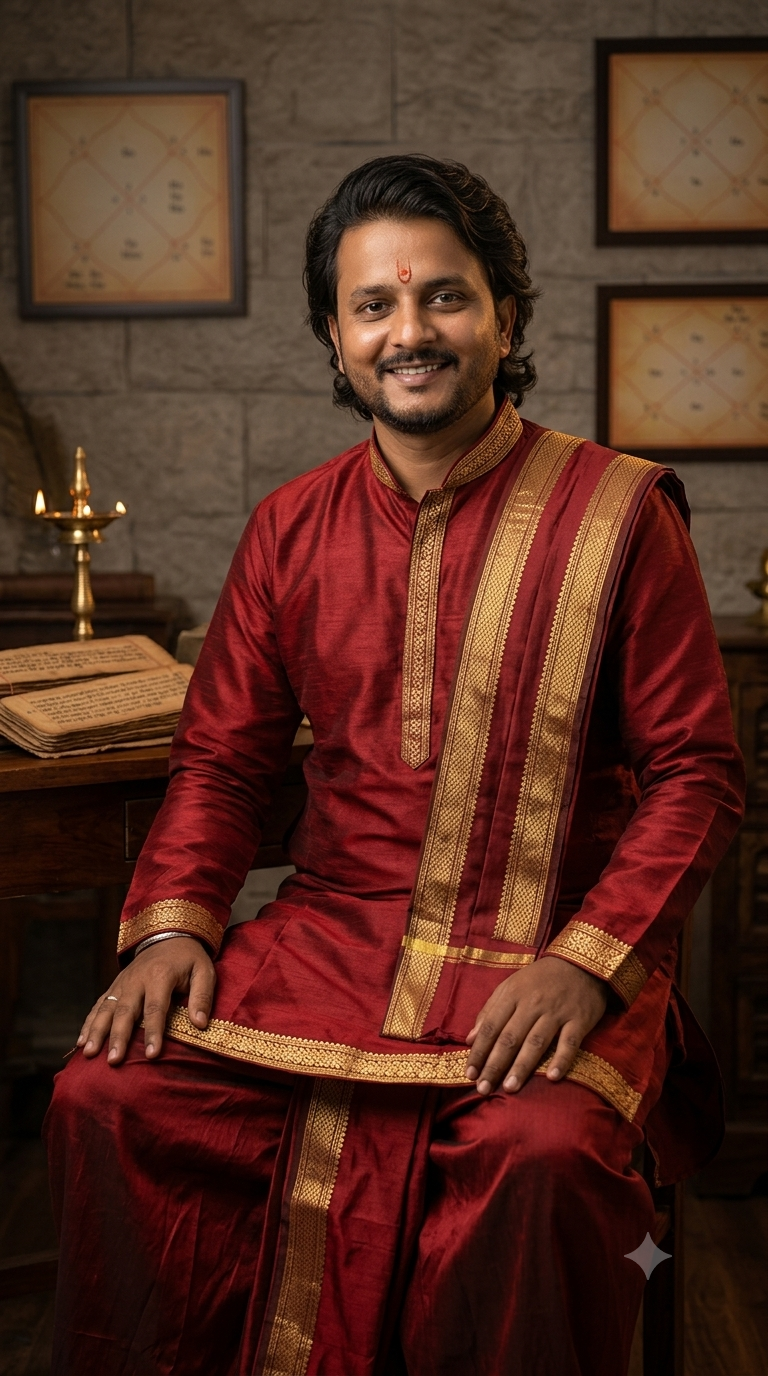
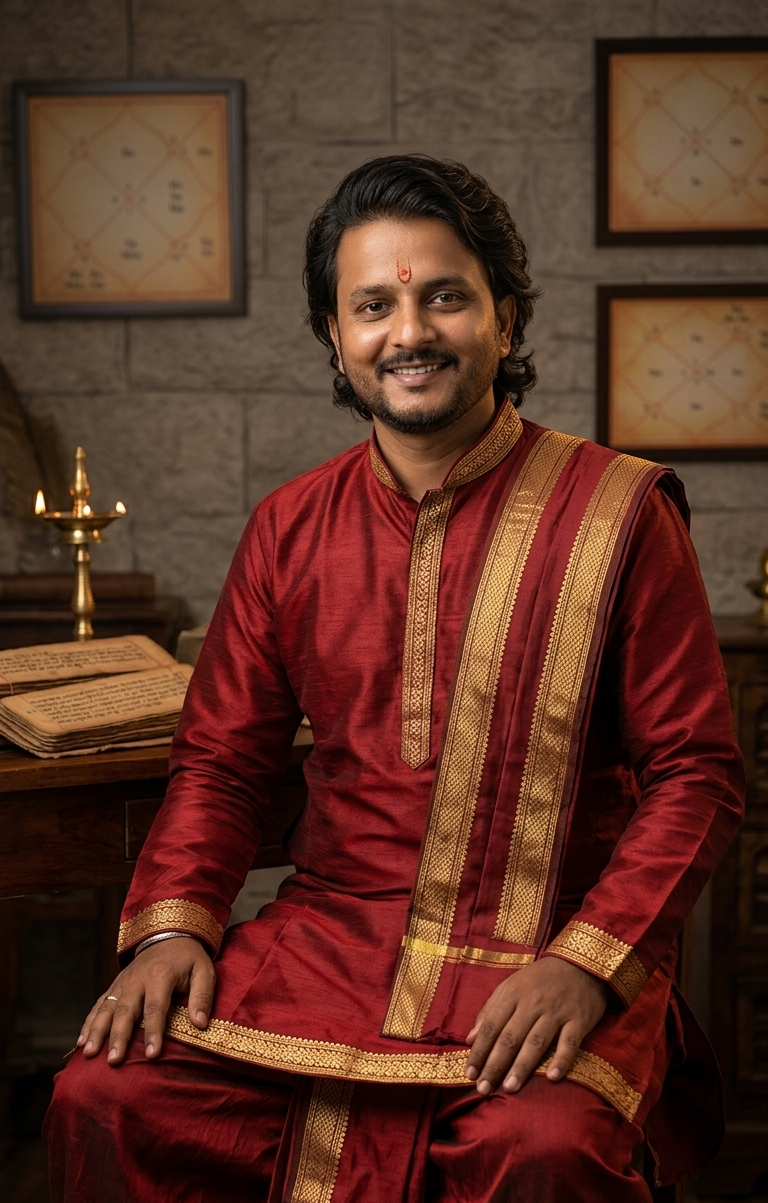
Add service benefits, new portrait photo, and spiritual background texture
Each service card now lists what the customer gains, the About section
uses the new professional portrait, and the page background has a
warmer, subtle spiritual texture (Om watermark, soft gradient).

diff --git a/index.html b/index.html
@@ -94,6 +94,13 @@
 <summary>विवरण और प्रक्रिया<span aria-hidden="true">＋</span>
 </summary>
 <div class="service-detail">
+<h4>इससे आपको क्या मिलता है</h4>
+<ul class="benefit-list">
+<li>अपनी कुंडली और जीवन के प्रमुख विषयों की स्पष्ट, व्यवस्थित समझ</li>
+<li>अपने सवालों पर केंद्रित, व्यक्तिगत बातचीत</li>
+<li>निर्णय लेने से पहले एक पारंपरिक दृष्टिकोण से सोचने का मौका</li>
+<li>मन की उलझन को शब्दों में रखकर हल्का महसूस करना</li>
+</ul>
 <h4>क्या जानकारी चाहिए</h4>
 <p>जन्म तिथि, यथासंभव सही जन्म समय, जन्म स्थान और आपके मुख्य सवाल। समय पता न हो तो पहले बताएं।</p>
 <h4>क्या शामिल है</h4>
@@ -119,6 +126,13 @@
 <summary>विवरण और प्रक्रिया<span aria-hidden="true">＋</span>
 </summary>
 <div class="service-detail">
+<h4>इससे आपको क्या मिलता है</h4>
+<ul class="benefit-list">
+<li>विवाह से जुड़े संकेतों और समय पर पारंपरिक स्पष्टता</li>
+<li>अपेक्षाओं और चिंताओं पर खुलकर बात करने का सुरक्षित स्थान</li>
+<li>परिवार या साथी से बातचीत के लिए बेहतर तैयारी</li>
+<li>अपने निर्णय पर भरोसा बढ़ाने वाली सोच-समझ</li>
+</ul>
 <h4>क्या जानकारी चाहिए</h4>
 <p>अपने जन्म विवरण और सवाल; दूसरे व्यक्ति की जानकारी केवल उनकी सहमति से साझा करें।</p>
 <h4>क्या शामिल है</h4>
@@ -144,6 +158,13 @@
 <summary>विवरण और प्रक्रिया<span aria-hidden="true">＋</span>
 </summary>
 <div class="service-detail">
+<h4>इससे आपको क्या मिलता है</h4>
+<ul class="benefit-list">
+<li>रिश्ते की उलझन को बिना जजमेंट के समझने का मौका</li>
+<li>अपनी भावनाओं और अपेक्षाओं को स्पष्ट करने में मदद</li>
+<li>आत्मचिंतन के लिए एक पारंपरिक आध्यात्मिक नज़रिया</li>
+<li>अगला कदम खुद तय करने का आत्मविश्वास</li>
+</ul>
 <h4>क्या जानकारी चाहिए</h4>
 <p>अपना प्रश्न और आवश्यक पृष्ठभूमि। निजी चैट या किसी अन्य की संवेदनशील जानकारी भेजने की आवश्यकता नहीं है।</p>
 <h4>क्या शामिल है</h4>
@@ -169,6 +190,13 @@
 <summary>विवरण और प्रक्रिया<span aria-hidden="true">＋</span>
 </summary>
 <div class="service-detail">
+<h4>इससे आपको क्या मिलता है</h4>
+<ul class="benefit-list">
+<li>पारिवारिक विषयों पर पारंपरिक दृष्टिकोण और मानसिक शांति</li>
+<li>अपेक्षाओं और सीमाओं की शुरुआत में ही स्पष्टता</li>
+<li>चिंता के समय भावनात्मक सहारा और सुनने वाला कोई</li>
+<li>इच्छानुसार प्रार्थना या ध्यान जैसे सरल अभ्यासों की जानकारी</li>
+</ul>
 <h4>क्या जानकारी चाहिए</h4>
 <p>अपने प्रश्न और केवल आवश्यक जन्म विवरण। चिकित्सा रिपोर्ट भेजने की आवश्यकता नहीं है।</p>
 <h4>क्या शामिल है</h4>
@@ -194,6 +222,13 @@
 <summary>विवरण और प्रक्रिया<span aria-hidden="true">＋</span>
 </summary>
 <div class="service-detail">
+<h4>इससे आपको क्या मिलता है</h4>
+<ul class="benefit-list">
+<li>रोज़ के जीवन में शामिल करने योग्य सरल आध्यात्मिक अभ्यास</li>
+<li>अपनी गति से सीखने का सहज, दबाव-मुक्त तरीका</li>
+<li>मानसिक शांति और नियमित दिनचर्या बनाने में सहायता</li>
+<li>परंपरा से जुड़ाव महसूस करने का अवसर</li>
+</ul>
 <h4>क्या जानकारी चाहिए</h4>
 <p>आपकी रुचि, परंपरा और अभ्यास के लिए उपलब्ध समय। किसी विशेष धार्मिक मान्यता को अपनाना आवश्यक नहीं है।</p>
 <h4>क्या शामिल है</h4>
@@ -244,7 +279,7 @@
 <section class="section container about" id="about">
 <figure>
 <a href="https://www.instagram.com/baalrishi_jyotish?stkn=MWdvZXkyNTZ2M2xkdQ==" target="_blank" rel="noopener noreferrer" aria-label="Instagram पर संपर्क करें ↗">
-<img src="assets/baalrishi-portrait.png" width="768" height="1376" loading="lazy" alt="बाल ऋषि का चित्र">
+<img src="assets/baalrishi-portrait.png" width="768" height="1203" loading="lazy" alt="बाल ऋषि का चित्र">
 </a>
 <figcaption>
 <a class="button primary" href="https://www.instagram.com/baalrishi_jyotish?stkn=MWdvZXkyNTZ2M2xkdQ==" target="_blank" rel="noopener noreferrer">Instagram पर संपर्क करें ↗</a>

diff --git a/en.html b/en.html
@@ -94,6 +94,13 @@
 <summary>Details & process<span aria-hidden="true">＋</span>
 </summary>
 <div class="service-detail">
+<h4>What you gain</h4>
+<ul class="benefit-list">
+<li>A clear, organised understanding of your birth chart and key life themes</li>
+<li>A focused, one-on-one conversation about your specific questions</li>
+<li>A traditional perspective to consider before you decide</li>
+<li>A calmer mind after putting your concerns into words</li>
+</ul>
 <h4>What to prepare</h4>
 <p>Your birth date, time as accurately as known, birthplace and main questions. Let us know if your birth time is uncertain.</p>
 <h4>What is included</h4>
@@ -119,6 +126,13 @@
 <summary>Details & process<span aria-hidden="true">＋</span>
 </summary>
 <div class="service-detail">
+<h4>What you gain</h4>
+<ul class="benefit-list">
+<li>Traditional clarity on marriage-related timing and indicators</li>
+<li>A safe space to voice expectations and concerns openly</li>
+<li>Better preparation for conversations with family or a partner</li>
+<li>Greater confidence in your own decision-making</li>
+</ul>
 <h4>What to prepare</h4>
 <p>Your birth details and questions. Share another person’s details only with their consent.</p>
 <h4>What is included</h4>
@@ -144,6 +158,13 @@
 <summary>Details & process<span aria-hidden="true">＋</span>
 </summary>
 <div class="service-detail">
+<h4>What you gain</h4>
+<ul class="benefit-list">
+<li>A non-judgmental space to understand your relationship concerns</li>
+<li>Help clarifying your own feelings and expectations</li>
+<li>A traditional spiritual perspective for self-reflection</li>
+<li>Confidence to decide your own next step</li>
+</ul>
 <h4>What to prepare</h4>
 <p>Your question and relevant background. You do not need to send private chats or sensitive information about someone else.</p>
 <h4>What is included</h4>
@@ -169,6 +190,13 @@
 <summary>Details & process<span aria-hidden="true">＋</span>
 </summary>
 <div class="service-detail">
+<h4>What you gain</h4>
+<ul class="benefit-list">
+<li>A traditional perspective and peace of mind around family questions</li>
+<li>Clarity on expectations and limits right from the start</li>
+<li>Emotional support and a listening ear during an anxious time</li>
+<li>Optional guidance on simple practices like prayer or meditation</li>
+</ul>
 <h4>What to prepare</h4>
 <p>Your questions and only the birth details needed for the discussion. Medical reports are not required.</p>
 <h4>What is included</h4>
@@ -194,6 +222,13 @@
 <summary>Details & process<span aria-hidden="true">＋</span>
 </summary>
 <div class="service-detail">
+<h4>What you gain</h4>
+<ul class="benefit-list">
+<li>A simple spiritual practice you can build into daily life</li>
+<li>An easy, pressure-free way to learn at your own pace</li>
+<li>Support in building a calming, regular routine</li>
+<li>A chance to feel connected to tradition</li>
+</ul>
 <h4>What to prepare</h4>
 <p>Your interests, tradition and the time you can set aside. You are not required to adopt a particular religious belief.</p>
 <h4>What is included</h4>
@@ -244,7 +279,7 @@
 <section class="section container about" id="about">
 <figure>
 <a href="https://www.instagram.com/baalrishi_jyotish?stkn=MWdvZXkyNTZ2M2xkdQ==" target="_blank" rel="noopener noreferrer" aria-label="Contact on Instagram ↗">
-<img src="assets/baalrishi-portrait.png" width="768" height="1376" loading="lazy" alt="Baal Rishi portrait">
+<img src="assets/baalrishi-portrait.png" width="768" height="1203" loading="lazy" alt="Baal Rishi portrait">
 </a>
 <figcaption>
 <a class="button primary" href="https://www.instagram.com/baalrishi_jyotish?stkn=MWdvZXkyNTZ2M2xkdQ==" target="_blank" rel="noopener noreferrer">Contact on Instagram ↗</a>

diff --git a/style.css b/style.css
@@ -5,6 +5,7 @@
   --ink:#203e35;
   --muted:#626960;
   --gold:#ae7234;
+  --maroon:#8a2f28;
   --line:#dedfd3;
   --soft:#efeee4;
   --green:#183d35;
@@ -24,7 +25,15 @@ html {
 body {
   margin:0;
   font-size:16px;
-  line-height:1.8
+  line-height:1.8;
+  background-color:var(--paper);
+  background-image:
+    radial-gradient(1100px 620px at 12% -8%,#f6e4c355,transparent 60%),
+    radial-gradient(900px 560px at 100% 8%,#dfe8dd66,transparent 55%),
+    radial-gradient(circle at 1px 1px,#ae723422 1.4px,transparent 0);
+  background-size:auto,auto,28px 28px;
+  background-repeat:no-repeat,no-repeat,repeat;
+  background-attachment:fixed,fixed,fixed
 }
 img {
   max-width:100%;
@@ -190,6 +199,22 @@ nav a {
   gap:64px;
   align-items:center;
   padding-block:74px 78px
+}
+.hero-copy {
+  position:relative
+}
+.hero-copy:before {
+  content:'ॐ';
+  position:absolute;
+  top:-52px;
+  left:-28px;
+  font-size:190px;
+  font-family:'Noto Serif Devanagari',serif;
+  color:var(--gold);
+  opacity:.07;
+  line-height:1;
+  z-index:-1;
+  pointer-events:none
 }
 .hero h1 {
   font-size:clamp(2.7rem,4.4vw,4rem);
@@ -380,6 +405,28 @@ details[open]>summary>span {
 }
 .service-detail p {
   font-size:.86rem
+}
+.benefit-list {
+  list-style:none;
+  margin:0;
+  padding:0;
+  display:grid;
+  gap:9px
+}
+.benefit-list li {
+  display:flex;
+  gap:10px;
+  align-items:flex-start;
+  font-size:.87rem;
+  color:var(--ink);
+  font-weight:500
+}
+.benefit-list li:before {
+  content:'✓';
+  color:var(--gold);
+  font-weight:700;
+  flex-shrink:0;
+  margin-top:1px
 }
 .service-detail .small-note {
   font-size:.76rem;

diff --git a/scripts/build.py b/scripts/build.py
@@ -10,31 +10,41 @@ services = [
  ['अपने जन्म विवरण को पारंपरिक ज्योतिष के नज़रिए से समझें। जीवन के विषयों और अपने सवालों पर एक केंद्रित बातचीत।','Explore your birth details through traditional astrology, with a focused conversation about your life themes and questions.'],
  ['जन्म तिथि, यथासंभव सही जन्म समय, जन्म स्थान और आपके मुख्य सवाल। समय पता न हो तो पहले बताएं।','Your birth date, time as accurately as known, birthplace and main questions. Let us know if your birth time is uncertain.'],
  ['ग्रहों और भावों का पारंपरिक अध्ययन, आपके चुने हुए विषयों की चर्चा और इच्छानुसार सामान्य आध्यात्मिक अभ्यास की जानकारी।','A traditional reading of planets and houses, discussion of your chosen topics, and optional information about general spiritual practices.'],
- ['जन्म विवरण की पुष्टि के बाद कुंडली पर चर्चा की जाती है। परामर्श का माध्यम, समय और दायरा बुकिंग से पहले तय करें।','After confirming your birth details, the chart is discussed with you. Confirm the consultation format, timing and scope before booking.']),
+ ['जन्म विवरण की पुष्टि के बाद कुंडली पर चर्चा की जाती है। परामर्श का माध्यम, समय और दायरा बुकिंग से पहले तय करें।','After confirming your birth details, the chart is discussed with you. Confirm the consultation format, timing and scope before booking.'],
+ [['अपनी कुंडली और जीवन के प्रमुख विषयों की स्पष्ट, व्यवस्थित समझ','अपने सवालों पर केंद्रित, व्यक्तिगत बातचीत','निर्णय लेने से पहले एक पारंपरिक दृष्टिकोण से सोचने का मौका','मन की उलझन को शब्दों में रखकर हल्का महसूस करना'],
+  ['A clear, organised understanding of your birth chart and key life themes','A focused, one-on-one conversation about your specific questions','A traditional perspective to consider before you decide','A calmer mind after putting your concerns into words']]),
 ('marriage','02','∞','₹551 – ₹851',
  ['विवाह मार्गदर्शन','Marriage guidance'],
  ['विवाह और साझेदारी से जुड़े प्रश्नों पर पारंपरिक कुंडली दृष्टिकोण। निर्णय में आपकी इच्छा और आपसी सहमति सबसे महत्वपूर्ण हैं।','A traditional birth-chart perspective on marriage and partnership, with personal choice and mutual consent at the centre.'],
  ['अपने जन्म विवरण और सवाल; दूसरे व्यक्ति की जानकारी केवल उनकी सहमति से साझा करें।','Your birth details and questions. Share another person’s details only with their consent.'],
  ['विवाह से जुड़े पारंपरिक संकेतों की चर्चा, अपेक्षाओं पर बातचीत और साथ में विचार करने योग्य विषय।','Discussion of traditional marriage indicators, expectations and topics to reflect on together.'],
- ['पहले प्रश्न और उपलब्ध विवरण समझे जाते हैं, फिर परामर्श का दायरा तय होता है। किसी विवाह, तिथि या रिश्ते के परिणाम की गारंटी नहीं है।','We first understand your questions and available details, then agree on the scope. No marriage, date or relationship outcome is guaranteed.']),
+ ['पहले प्रश्न और उपलब्ध विवरण समझे जाते हैं, फिर परामर्श का दायरा तय होता है। किसी विवाह, तिथि या रिश्ते के परिणाम की गारंटी नहीं है।','We first understand your questions and available details, then agree on the scope. No marriage, date or relationship outcome is guaranteed.'],
+ [['विवाह से जुड़े संकेतों और समय पर पारंपरिक स्पष्टता','अपेक्षाओं और चिंताओं पर खुलकर बात करने का सुरक्षित स्थान','परिवार या साथी से बातचीत के लिए बेहतर तैयारी','अपने निर्णय पर भरोसा बढ़ाने वाली सोच-समझ'],
+  ['Traditional clarity on marriage-related timing and indicators','A safe space to voice expectations and concerns openly','Better preparation for conversations with family or a partner','Greater confidence in your own decision-making']]),
 ('love','03','♡','₹551 – ₹851',
  ['प्रेम एवं संबंध','Love & relationships'],
  ['रिश्तों की उलझनों पर संवेदनशील बातचीत और आत्मचिंतन के लिए पारंपरिक आध्यात्मिक दृष्टिकोण।','A thoughtful conversation about relationship concerns and a traditional spiritual perspective for personal reflection.'],
  ['अपना प्रश्न और आवश्यक पृष्ठभूमि। निजी चैट या किसी अन्य की संवेदनशील जानकारी भेजने की आवश्यकता नहीं है।','Your question and relevant background. You do not need to send private chats or sensitive information about someone else.'],
  ['रिश्ते से जुड़ी चिंताओं की चर्चा, आपकी अपेक्षाओं पर आत्मचिंतन और वैकल्पिक साधना की सामान्य जानकारी।','Discussion of your concerns, reflection on your expectations and general information about optional spiritual practices.'],
- ['आपकी बात सुनकर उपलब्ध जानकारी के आधार पर चर्चा होती है। किसी को नियंत्रित करने, वशीकरण या प्रेम वापस लाने का दावा नहीं किया जाता।','We listen to your concerns and discuss the information available. We do not offer control over another person or promise to bring someone back.']),
+ ['आपकी बात सुनकर उपलब्ध जानकारी के आधार पर चर्चा होती है। किसी को नियंत्रित करने, वशीकरण या प्रेम वापस लाने का दावा नहीं किया जाता।','We listen to your concerns and discuss the information available. We do not offer control over another person or promise to bring someone back.'],
+ [['रिश्ते की उलझन को बिना जजमेंट के समझने का मौका','अपनी भावनाओं और अपेक्षाओं को स्पष्ट करने में मदद','आत्मचिंतन के लिए एक पारंपरिक आध्यात्मिक नज़रिया','अगला कदम खुद तय करने का आत्मविश्वास'],
+  ['A non-judgmental space to understand your relationship concerns','Help clarifying your own feelings and expectations','A traditional spiritual perspective for self-reflection','Confidence to decide your own next step']]),
 ('santan','04','⌂','₹751 – ₹1,100',
  ['संतान एवं परिवार','Children & family'],
  ['परिवार से जुड़े प्रश्नों पर आस्था-आधारित मार्गदर्शन और शांतिपूर्ण आत्मचिंतन के लिए स्थान।','Faith-based guidance and space for reflection on questions about family life.'],
  ['अपने प्रश्न और केवल आवश्यक जन्म विवरण। चिकित्सा रिपोर्ट भेजने की आवश्यकता नहीं है।','Your questions and only the birth details needed for the discussion. Medical reports are not required.'],
  ['पारिवारिक विषयों पर पारंपरिक ज्योतिषीय चर्चा और इच्छानुसार प्रार्थना या ध्यान की सामान्य जानकारी।','Traditional astrological discussion of family themes and optional general information about prayer or meditation.'],
- ['पहले आपकी अपेक्षाएं और सेवा की सीमाएं स्पष्ट की जाती हैं। यह प्रजनन उपचार नहीं है; गर्भधारण, संतान या शिशु के लिंग की भविष्यवाणी या गारंटी नहीं दी जाती।','We first clarify expectations and the limits of the service. This is not fertility treatment; we do not predict or guarantee conception, children or a baby’s sex.']),
+ ['पहले आपकी अपेक्षाएं और सेवा की सीमाएं स्पष्ट की जाती हैं। यह प्रजनन उपचार नहीं है; गर्भधारण, संतान या शिशु के लिंग की भविष्यवाणी या गारंटी नहीं दी जाती।','We first clarify expectations and the limits of the service. This is not fertility treatment; we do not predict or guarantee conception, children or a baby’s sex.'],
+ [['पारिवारिक विषयों पर पारंपरिक दृष्टिकोण और मानसिक शांति','अपेक्षाओं और सीमाओं की शुरुआत में ही स्पष्टता','चिंता के समय भावनात्मक सहारा और सुनने वाला कोई','इच्छानुसार प्रार्थना या ध्यान जैसे सरल अभ्यासों की जानकारी'],
+  ['A traditional perspective and peace of mind around family questions','Clarity on expectations and limits right from the start','Emotional support and a listening ear during an anxious time','Optional guidance on simple practices like prayer or meditation']]),
 ('mantra','05','✺','₹251 – ₹1,100',
  ['मंत्र साधना एवं ध्यान','Mantra & meditation'],
  ['दैनिक जीवन में एक सरल आध्यात्मिक अभ्यास के लिए पारंपरिक मंत्र, जप और ध्यान का परिचय।','An introduction to traditional mantra, chanting and meditation for a simple spiritual practice in everyday life.'],
  ['आपकी रुचि, परंपरा और अभ्यास के लिए उपलब्ध समय। किसी विशेष धार्मिक मान्यता को अपनाना आवश्यक नहीं है।','Your interests, tradition and the time you can set aside. You are not required to adopt a particular religious belief.'],
  ['अभ्यास की सामान्य प्रक्रिया, सहज दिनचर्या बनाने पर चर्चा और अपने सहज स्तर पर अभ्यास का मार्गदर्शन।','An introduction to the practice, discussion of a manageable routine and guidance on practising at your own comfort level.'],
- ['आपके अनुभव के अनुसार शुरुआती अभ्यास पर चर्चा होती है। भागीदारी स्वैच्छिक है; चमत्कार, रोगमुक्ति या निश्चित परिणाम का दावा नहीं है।','We discuss an introductory practice suited to your experience. Participation is voluntary; no miracle, cure or specific result is promised.'])]
+ ['आपके अनुभव के अनुसार शुरुआती अभ्यास पर चर्चा होती है। भागीदारी स्वैच्छिक है; चमत्कार, रोगमुक्ति या निश्चित परिणाम का दावा नहीं है।','We discuss an introductory practice suited to your experience. Participation is voluntary; no miracle, cure or specific result is promised.'],
+ [['रोज़ के जीवन में शामिल करने योग्य सरल आध्यात्मिक अभ्यास','अपनी गति से सीखने का सहज, दबाव-मुक्त तरीका','मानसिक शांति और नियमित दिनचर्या बनाने में सहायता','परंपरा से जुड़ाव महसूस करने का अवसर'],
+  ['A simple spiritual practice you can build into daily life','An easy, pressure-free way to learn at your own pace','Support in building a calming, regular routine','A chance to feel connected to tradition']])]
 texts = {
 'nav':[['सेवाएँ','प्रक्रिया','हमारे बारे में','संपर्क'],['Services','How it works','About','Contact']],
 'brand':['पारंपरिक ज्ञान • सहज मार्गदर्शन','Traditional wisdom • Thoughtful guidance'],
@@ -48,6 +58,7 @@ texts = {
 'servicesTitle':['आपके लिए परामर्श','Find your consultation'],
 'servicesIntro':['हर सेवा में क्या शामिल है, क्या जानकारी चाहिए और प्रक्रिया कैसी होगी—बुकिंग से पहले विस्तार से जानें।','Understand what each service includes, what to prepare and how it works before you book.'],
 'details':['विवरण और प्रक्रिया','Details & process'],
+'benefitsHeading':['इससे आपको क्या मिलता है','What you gain'],
 'prepare':['क्या जानकारी चाहिए','What to prepare'],
 'include':['क्या शामिल है','What is included'],
 'process':['कैसे होगा','How it works'],
@@ -98,8 +109,9 @@ for lang,n in [('hi',0),('en',1)]:
  def t(key): return texts[key][n]
  def tr(code): return 'https://translate.google.com/translate?'+urlencode({'sl':'en','tl':code,'u':BASE+'en.html'})
  cards=''
- for id,num,icon,price,title,desc,prep,inc,proc in services:
-  cards+=f'''<article class="service-card" id="{id}"><div class="card-top"><span class="service-symbol" aria-hidden="true">{icon}</span><span class="serial">{num}</span></div><h3>{title[n]}</h3><p>{desc[n]}</p><div class="fee">{price}</div><p class="fee-note">{t('feeNote')}</p><details><summary>{t('details')}<span aria-hidden="true">＋</span></summary><div class="service-detail"><h4>{t('prepare')}</h4><p>{prep[n]}</p><h4>{t('include')}</h4><p>{inc[n]}</p><h4>{t('process')}</h4><p>{proc[n]}</p><p class="small-note">{t('commonShort')} <a href="#notice">{t('noticeLink')}</a></p><a class="text-link" href="#contact">{t('choose')}</a></div></details></article>'''
+ for id,num,icon,price,title,desc,prep,inc,proc,benefits in services:
+  benefit_items=''.join(f'<li>{b}</li>' for b in benefits[n])
+  cards+=f'''<article class="service-card" id="{id}"><div class="card-top"><span class="service-symbol" aria-hidden="true">{icon}</span><span class="serial">{num}</span></div><h3>{title[n]}</h3><p>{desc[n]}</p><div class="fee">{price}</div><p class="fee-note">{t('feeNote')}</p><details><summary>{t('details')}<span aria-hidden="true">＋</span></summary><div class="service-detail"><h4>{t('benefitsHeading')}</h4><ul class="benefit-list">{benefit_items}</ul><h4>{t('prepare')}</h4><p>{prep[n]}</p><h4>{t('include')}</h4><p>{inc[n]}</p><h4>{t('process')}</h4><p>{proc[n]}</p><p class="small-note">{t('commonShort')} <a href="#notice">{t('noticeLink')}</a></p><a class="text-link" href="#contact">{t('choose')}</a></div></details></article>'''
  steps=''.join(f'<article><span class="step-num">0{i+1}</span><h3>{a}</h3><p>{b}</p></article>' for i,(a,b) in enumerate(t('steps')))
  faqs=''.join(f'<details><summary>{q}<span aria-hidden="true">＋</span></summary><p>{a}</p></details>' for q,a in t('faqs'))
  nav=''.join(f'<a href="#{id}">{label}</a>' for id,label in zip(['services','how','about','contact'],t('nav')))
@@ -113,7 +125,7 @@ for lang,n in [('hi',0),('en',1)]:
 <div class="values-strip"><div class="container"><span>✧ {'पारंपरिक दृष्टिकोण' if n==0 else 'Traditional perspectives'}</span><span>✧ {'स्पष्ट सेवा विवरण' if n==0 else 'Clear service details'}</span><span>✧ {'आपका निर्णय, आपकी स्वतंत्रता' if n==0 else 'Your choice, your agency'}</span></div></div>
 <section class="section container" id="services"><div class="section-heading"><p class="eyebrow">{t('serviceTag')}</p><h2>{t('servicesTitle')}</h2><p>{t('servicesIntro')}</p></div><div class="service-grid">{cards}<aside class="service-aside"><span aria-hidden="true">✺</span><h3>{'एक सवाल से<br>शुरुआत करें।' if n==0 else 'Start with<br>one question.'}</h3><p>{'सेवा चुनने में उलझन है? पहले बात करके समझें कि कौन-सा परामर्श आपके लिए उपयुक्त है।' if n==0 else 'Not sure which service to choose? Get in touch to understand which consultation fits your question.'}</p><a href="#contact" class="button light">{t('book')} ↗</a></aside></div><a class="section-notice" href="#notice">ⓘ {t('commonShort')} <span>{t('noticeLink')} ↗</span></a></section>
 <section class="how-section" id="how"><div class="container section"><div class="section-heading"><p class="eyebrow">{t('howTag')}</p><h2>{t('howTitle')}</h2></div><div class="steps">{steps}</div></div></section>
-<section class="section container about" id="about"><figure><a href="{e(config['instagramUrl'])}" target="_blank" rel="noopener noreferrer" aria-label="{t('instaButton')}"><img src="assets/baalrishi-portrait.png" width="768" height="1376" loading="lazy" alt="{t('illustration')}"></a><figcaption><a class="button primary" href="{e(config['instagramUrl'])}" target="_blank" rel="noopener noreferrer">{t('instaButton')}</a></figcaption></figure><div><p class="eyebrow">{t('aboutTag')}</p><h2>{t('aboutTitle')}</h2><p>{t('aboutText')}</p><p>{t('aboutText2')}</p><a class="text-link" href="#notice">{t('noticeLink')} ↗</a></div></section>
+<section class="section container about" id="about"><figure><a href="{e(config['instagramUrl'])}" target="_blank" rel="noopener noreferrer" aria-label="{t('instaButton')}"><img src="assets/baalrishi-portrait.png" width="768" height="1203" loading="lazy" alt="{t('illustration')}"></a><figcaption><a class="button primary" href="{e(config['instagramUrl'])}" target="_blank" rel="noopener noreferrer">{t('instaButton')}</a></figcaption></figure><div><p class="eyebrow">{t('aboutTag')}</p><h2>{t('aboutTitle')}</h2><p>{t('aboutText')}</p><p>{t('aboutText2')}</p><a class="text-link" href="#notice">{t('noticeLink')} ↗</a></div></section>
 <section class="container payment" id="payment"><div><p class="eyebrow">{t('paymentTag')}</p><h2>{t('paymentTitle')}</h2><p>{t('paymentText')}</p><p class="small-note">{t('paymentNote')}</p></div><a class="qr-card" href="qr.png" target="_blank" rel="noopener"><img src="qr.png" width="220" height="220" loading="lazy" alt="{'मौजूदा भुगतान QR कोड' if n==0 else 'Existing payment QR code'}"><span>{t('qr')}</span></a></section>
 <section class="section container" id="contact"><div class="section-heading"><p class="eyebrow">{t('contactTag')}</p><h2>{t('contactTitle')}</h2><p>{t('contactText')}</p></div><div class="contact-grid"><article><span class="contact-number">01 / FORM</span><h3>{t('formTitle')}</h3><p>{t('formAvailable') if form else t('formUnavailable')}</p>{formcta}</article><article><span class="contact-number">02 / INSTAGRAM</span><h3>@baalrishi_jyotish</h3><p>{t('instaText')}</p><a class="button primary" href="{config['instagramUrl']}" target="_blank" rel="noopener noreferrer">{t('instaButton')}</a></article></div><p class="privacy-note">{t('privacy')}</p></section>
 <section class="container faq"><h2>{t('faqTitle')}</h2><div>{faqs}</div></section>
